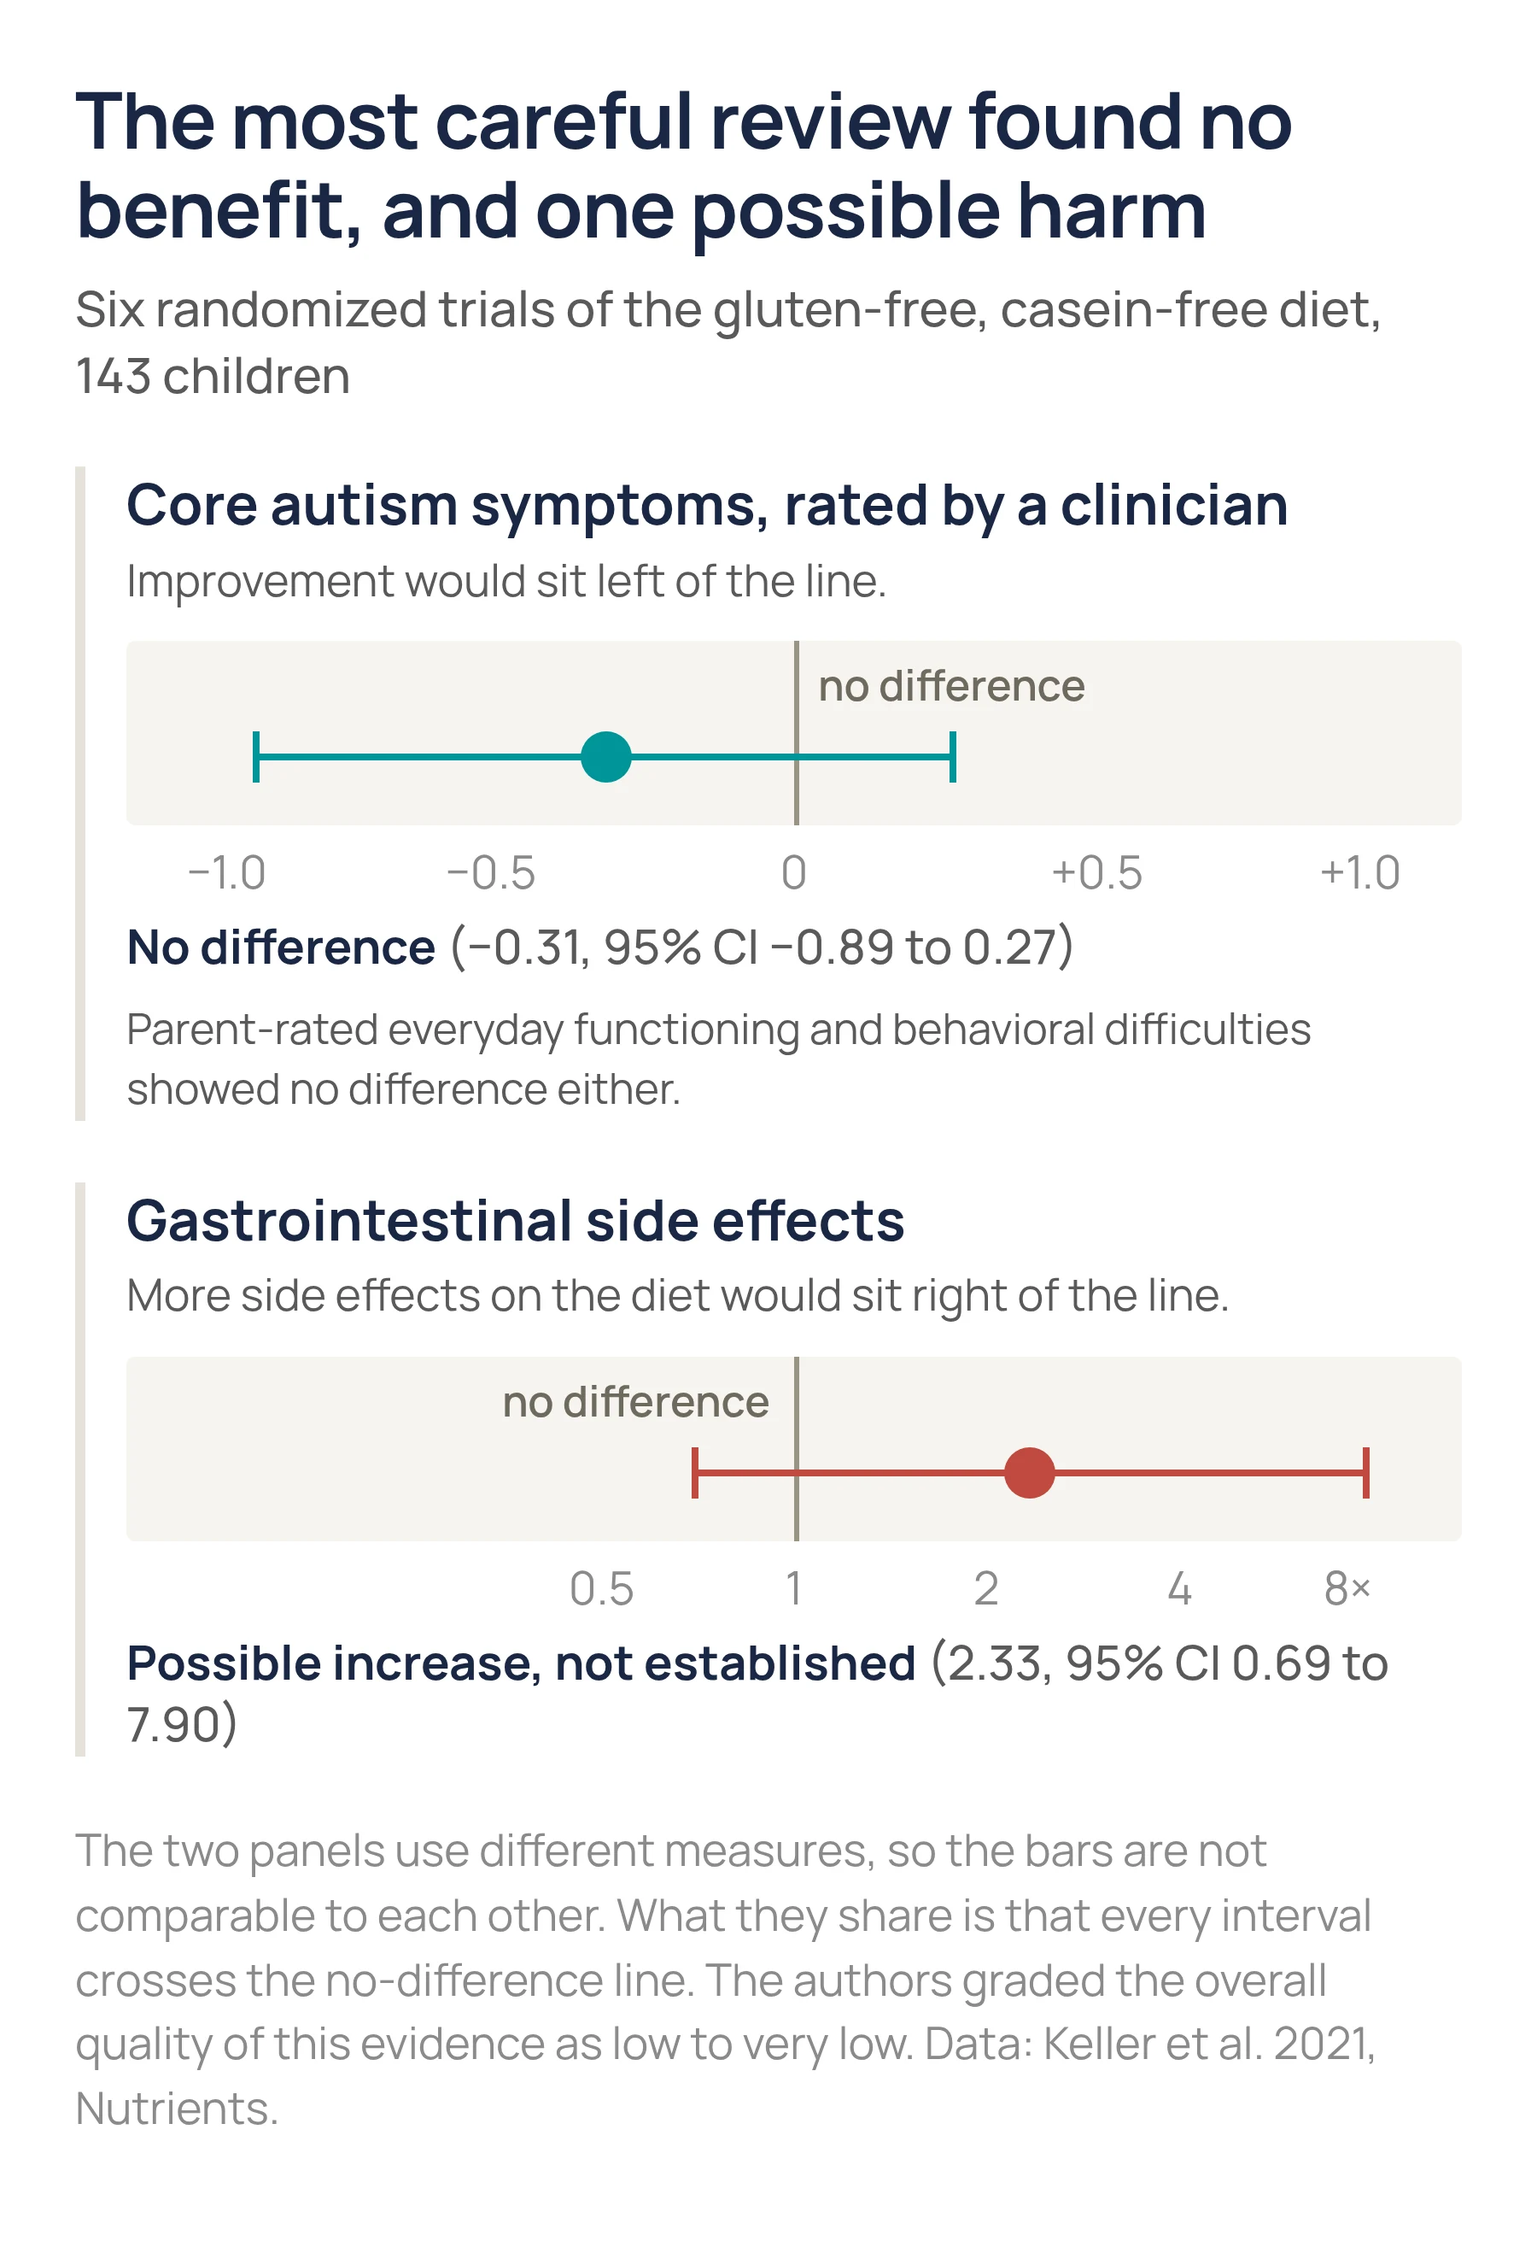
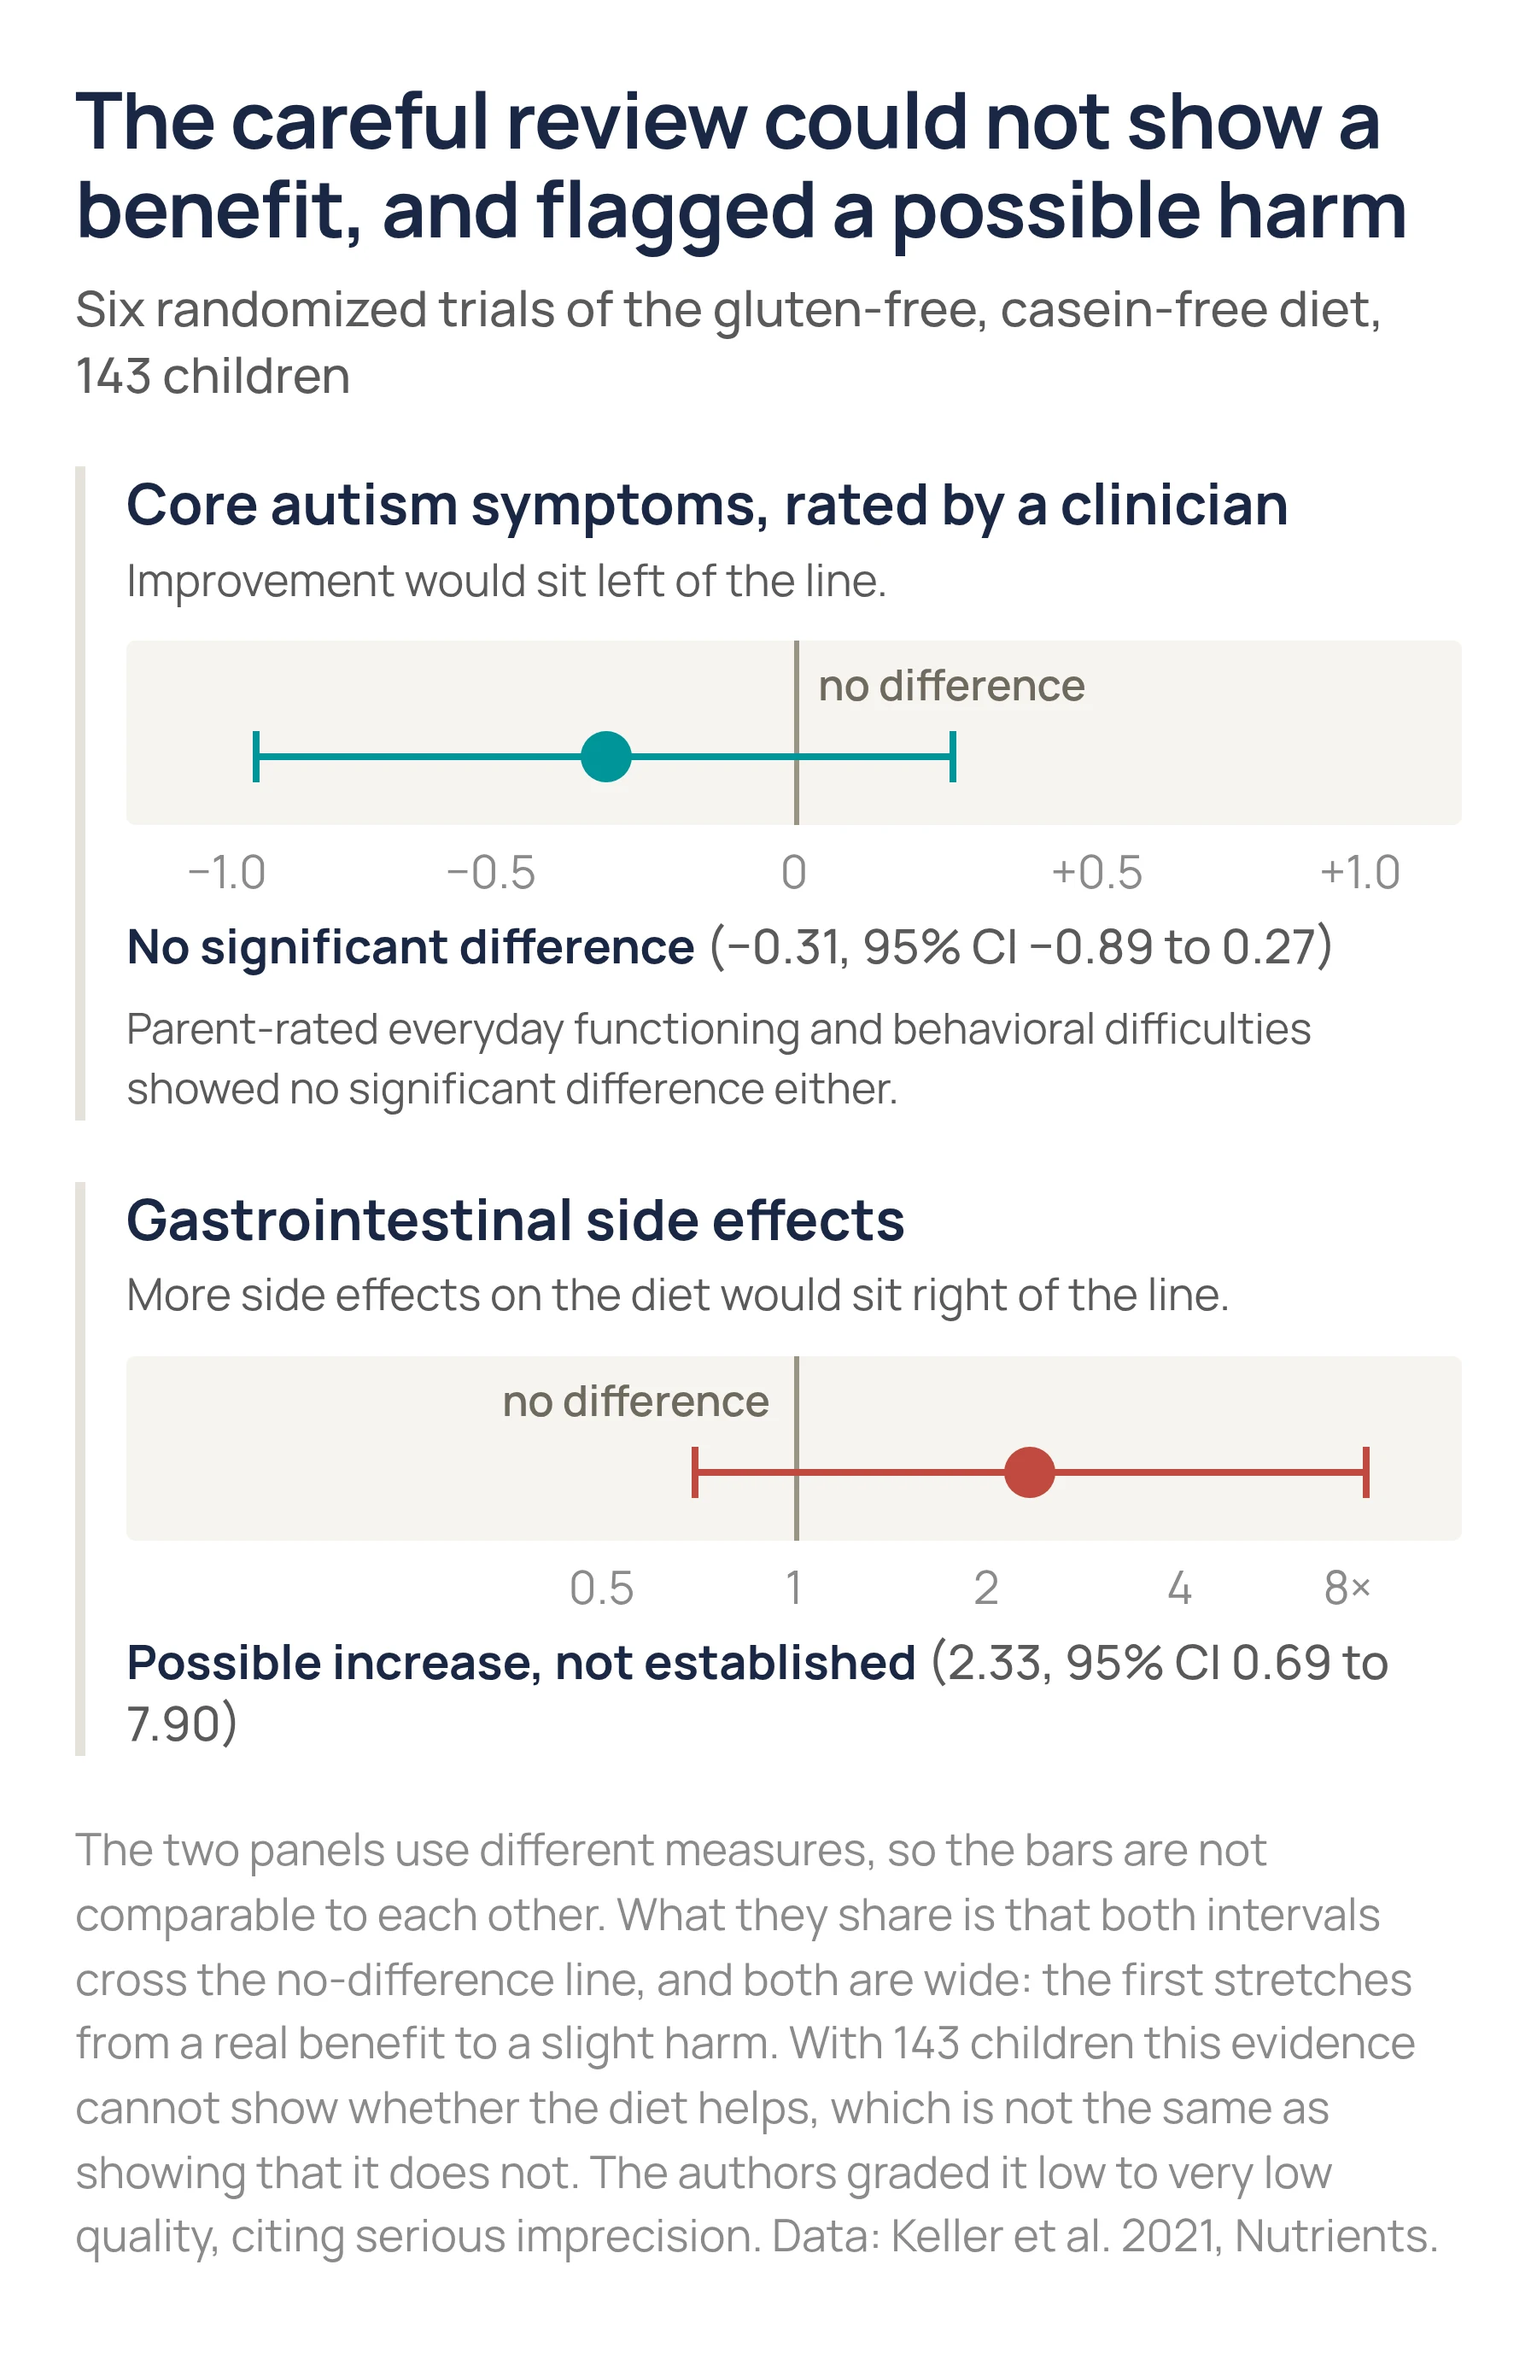
Correct wording that asserted the null on the GFCF article
Client asked whether -0.31 is really non-significant. It is not significant,
and the question exposed our own drift: the figure said 'No difference', the
text said the interval 'comfortably crosses zero' (three quarters of it sits on
the benefit side), and that the effect 'goes away' under blinding. All three
confuse no-evidence-of-effect with evidence-of-no-effect, which is the exact
error this article is about.

Now reads 'no significant difference', explains that the interval includes zero,
and adds a paragraph stating that 143 children cannot settle the question since
the interval runs from a substantial benefit to a slight harm. 10/10 live
checks pass.

Claude-Session: https://claude.ai/code/session_01ESdSdoUivG7GAzDwAHmNhg

Changed region(s): [[0.0311, 0.0312, 0.9333, 0.9665]]

diff --git a/content/blog/rewrites/charts/gfcf-charts.html b/content/blog/rewrites/charts/gfcf-charts.html
@@ -28,7 +28,7 @@
 </style></head><body>
 
 <div class="fig" id="gfig1">
-  <h2>The most careful review found no benefit, and one possible harm</h2>
+  <h2>The careful review could not show a benefit, and flagged a possible harm</h2>
   <p class="sub">Six randomized trials of the gluten-free, casein-free diet, 143 children</p>
 
   <div class="panel">
@@ -45,8 +45,8 @@
       <span class="tk" style="left:50%">0</span><span class="tk" style="left:72.7%">+0.5</span>
       <span class="tk last" style="left:95.5%">+1.0</span>
     </div>
-    <p class="pres">No difference <span>(&minus;0.31, 95% CI &minus;0.89 to 0.27)</span></p>
-    <p class="also">Parent-rated everyday functioning and behavioral difficulties showed no difference either.</p>
+    <p class="pres">No significant difference <span>(&minus;0.31, 95% CI &minus;0.89 to 0.27)</span></p>
+    <p class="also">Parent-rated everyday functioning and behavioral difficulties showed no significant difference either.</p>
   </div>
 
   <div class="panel">
@@ -66,7 +66,7 @@
     <p class="pres">Possible increase, not established <span>(2.33, 95% CI 0.69 to 7.90)</span></p>
   </div>
 
-  <p class="credit">The two panels use different measures, so the bars are not comparable to each other. What they share is that every interval crosses the no-difference line. The authors graded the overall quality of this evidence as low to very low. Data: Keller et al. 2021, Nutrients.</p>
+  <p class="credit">The two panels use different measures, so the bars are not comparable to each other. What they share is that both intervals cross the no-difference line, and both are wide: the first stretches from a real benefit to a slight harm. With 143 children this evidence cannot show whether the diet helps, which is not the same as showing that it does not. The authors graded it low to very low quality, citing serious imprecision. Data: Keller et al. 2021, Nutrients.</p>
 </div>
 
 </body></html>

diff --git a/content/blog/rewrites/charts/README.md b/content/blog/rewrites/charts/README.md
@@ -160,3 +160,31 @@ caps by 11px. Worth building into the shared styles rather than rediscovering.
 
 Live: 600px inset on desktop (821px column), 358px on mobile, zero horizontal
 overflow, axis labels 18.0px and 10.7px respectively.
+
+### Precision correction, same day (client caught it)
+
+The client asked whether -0.31 is really not statistically significant. It is
+not, and the question exposed that our own wording had drifted into asserting
+the null:
+
+- the figure said "No difference", which asserts there is none
+- the article said the interval "comfortably crosses zero", when in fact about
+  three quarters of it sits on the benefit side and only the top 0.27 of a
+  1.16-wide interval crosses
+- the article said the effect "goes away" under blinding
+
+All three are the error the article itself is about: confusing "no evidence of
+an effect" with "evidence of no effect". Corrected to "No significant
+difference", "does not reach statistical significance", and "stops being
+detectable", plus a new paragraph stating plainly that 143 children cannot
+settle the question and that the interval runs from a substantial benefit to a
+slight harm. Keller's own GRADE rating cites serious imprecision, which now
+appears in the text.
+
+Replacement asset gfcf-keller-outcomes-v2.webp (md5
+2fe511de1bafd20a1ea28785df20784a, asset 6a7af9888802f3f4985ab54a).
+
+Rule for the remaining rewrites: a non-significant result is never described as
+"no difference" or "no effect" in our own voice. Quote the authors if they use
+that phrasing, but our sentences say "no significant difference" and, where the
+sample is small, say so.
